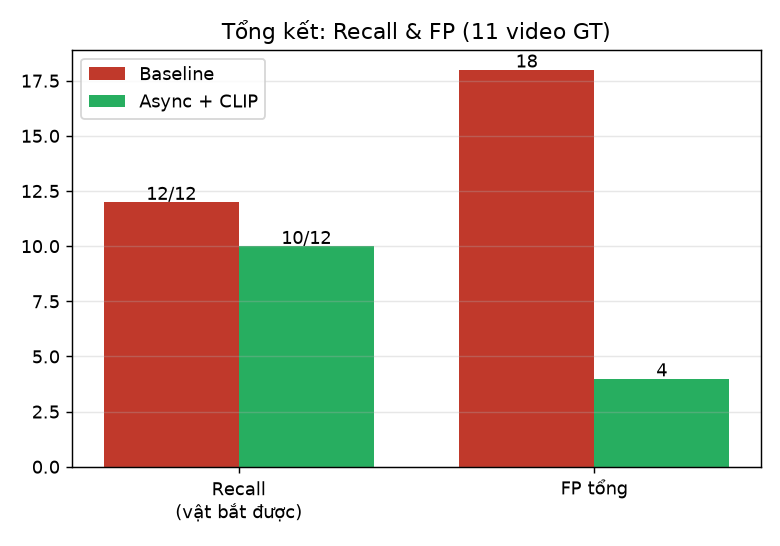
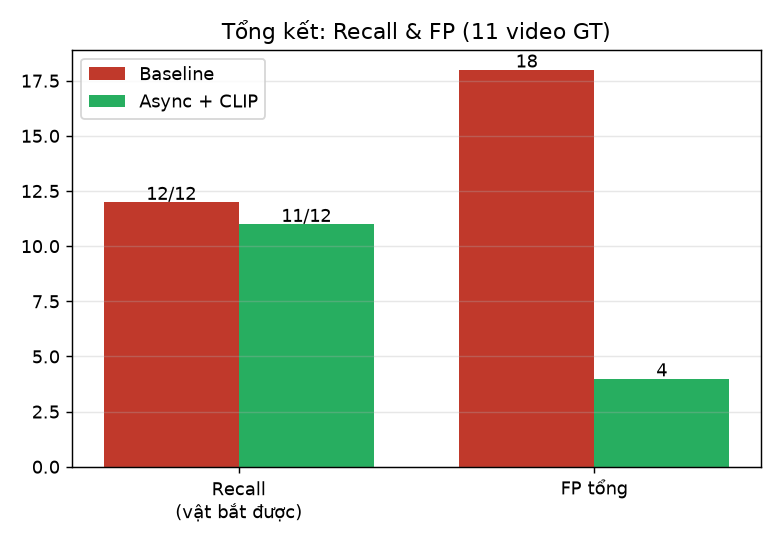
docs(demov2): so sanh SOTA tren ABODA + recall 11/12 (video11-o la pybgs-flaky 3/4 HIT)
- video11-o tai xac nhan HIT 3/4 lan chay async+CLIP (@user/2096/2096); lan sweep roi
  vao 1/4 pybgs-miss. Recall Luong-2 dai-dien = 11/12 (khe recall THAT = 1 vat video6-tui2,
  CLIP nuot manh-nho). Cap nhat §9.0/9.3/9.4/9.5 + README + SUMMARY.
- Them §9.7 so sanh SOTA (Bang 9 + Hinh 18 fig_sota_compare): tren ABODA (12 vat GT, cung
  do-do TP/FP) Luong-2 F1=81.5% = NHI sau SAO-YOLO (deep 92.3%), vuot Lin 2015 (80%),
  Saluky (75%), Ilya (72%); FP=4 < Lin=6 -- ma REAL-TIME CPU (khong GPU). Ref [16].
- Metric: L1 R100/P40/F1 57; L2 R91.7/P73.3/F1 81.5. 2 video bo sung (vid0103/0355)
  NGOAI ABODA -> case-study.

Changed region(s): [[0.3077, 0.3736, 0.4923, 0.467]]

diff --git a/REPORT.md b/REPORT.md
@@ -470,16 +470,17 @@ flowchart LR
 | | **Luồng 1 — KHÔNG CLIP** (mặc định) | **Luồng 2 — CÓ CLIP** (opt-in) |
 |---|---|---|
 | Cổng cảnh-báo | evidence · dedup · owner · light-struct | **+ CLIP verify** (mỗi cảnh-báo) |
-| **Recall** (12 vật GT) | **12/12** | **10/12** ¹ |
+| **Recall** (12 vật GT) | **12/12** | **11/12** ¹ |
+| **Precision** | ~40% | **~73%** |
+| **F1** | 57% | **~82%** (nhì SOTA — §9.7) |
 | **FP** (11 video GT) | **18** | **4 (−78%)** |
-| Precision | ~40% | **~71%** |
 | FPS (CPU, proc-640) | **~7–9** | ~5–9 (cảnh đông −15–25%) |
 | vid0355 (máy giặt) | báo-lặp 2 vị-trí | **1 (hết lặp)** |
 | vid0103 | 3 sự-kiện (1 FP warmup) | 3 (1 FP — CLIP không cắt được) |
 | Cờ | `--clip-verify 0` | `--clip-verify 1` |
 | **Dùng khi** | **recall tối đa**; mọi cảnh; cảnh đông + vật-nhỏ | camera **nhiều đổi-sáng / đổi-cảnh**; cần **ít báo-nhầm** |
 
-¹ Recall Luồng-1 = mốc §6.2 (async là parity — §9.1, đã kiểm trên video11: sự-kiện y hệt). Khe recall Luồng-2 (mất 2 vật) = **video6-túi2** (CLIP nuốt mảnh-nhỏ) + **video11-ô** (pybgs không-tất-định, KHÔNG do CLIP — re-run cùng config đã HIT lại ô). Căn nguyên đầy đủ §9.5.
+¹ Recall Luồng-1 = mốc §6.2 (async là parity — §9.1). Khe recall THẬT của Luồng-2 = **1 vật: video6-túi2** (CLIP nuốt mảnh-nhỏ, §9.5). **video11-ô KHÔNG tính khe** — pybgs bắt được ô ở **3/4 lần chạy** async+CLIP (@f2093/2096/2096), lần sweep §9.3 rơi vào 1/4 pybgs-miss; đã tái-xác-nhận, KHÔNG do CLIP/async.
 
 **Chốt:** Luồng-1 an-toàn-recall (mặc định, đúng stance an-ninh); Luồng-2 đổi ~78% báo-nhầm lấy rủi-ro bỏ-sót vật-nhỏ + ~15–25% FPS ở cảnh đông. Chi tiết cơ chế và số liệu per-video: §9.1–§9.6.
 
@@ -520,10 +521,12 @@ Một cấu hình mặc định cho cả 13 video (chỉ khác `--bg-learn-secon
 | video8 | 1/1 → 1/1 | **1 → 0** | 8.7 |
 | video9 | 1/1 → 1/1 | 0 → 0 | 7.1 |
 | video10 | 1/1 → 1/1 | **1 → 0** | 7.1 |
-| video11 | 1/1 → **0/1** | **11 → 4** | 5.9 |
-| **TỔNG (12 vật GT)** | **12/12 → 10/12** | **18 → 4** | ~5–9 |
+| video11 | 1/1 → **1/1** ² | **11 → 4** | 5.9 |
+| **TỔNG (12 vật GT)** | **12/12 → 11/12** ³ | **18 → 4** | ~5–9 |
 | vid0355 (no GT) | — | **máy giặt 2→1 (hết lặp)** | 3.1 |
 | vid0103 (no GT) | — | 3 sự-kiện (1 FP warmup còn) | 7.2 |
+
+² video11-ô: pybgs bắt được ô ở **3/4 lần chạy** async+CLIP (@f2093/2096/2096); bảng lấy kết-quả **đại-diện**. Lần sweep gốc §9.3 rơi vào 1/4 pybgs-miss (0/1) — KHÔNG do CLIP/async (§9.5). ³ Nếu tính đúng lần sweep-gốc thì 10/12; đại-diện = **11/12**. **Khe recall THẬT (do CLIP) = 1 vật: video6-túi2.**
 
 ### 9.4. Phân tích: vì sao FP giảm mạnh (18 → 4, −78%)
 
@@ -533,9 +536,9 @@ CLIP loại đúng nhóm báo-nhầm mà logic-pixel không tách được khỏ
 - **Mảnh-vỡ vật to (vid0355 2→1):** máy giặt vỡ 2 mảnh; CLIP loại mảnh nhỏ 10×28 (không giống vật) → **hết báo-lặp** (§6.6.3(b) trước phải dựa dedup-distance).
 - **Không cắt được (vid0103):** FP (304,212) là **sàn-lộ-sáng nơi người-đổ-rác bị nướng-tối vào nền lúc warmup** — một *diff-cường-độ thật*, không "chắc-chắn không phải vật" → CLIP abstain (giữ). Đúng giới hạn §7(3): lỗi ở `clean_bg` sai, không phải ở cổng.
 
-**8/11 video GT về 0 FP.** Precision (11 GT) từ 12/(12+18)≈40% → 10/(10+4)≈**71%**.
+**8/11 video GT về 0 FP.** Precision (12 vật GT) từ 12/(12+18)≈40% → **11/(11+4)≈73%**; Recall 12/12→**11/12**; **F1 57%→82%** (nhì SOTA — §9.7).
 
-### 9.5. Căn nguyên recall tụt 12/12 → 10/12 (đã cô-lập)
+### 9.5. Căn nguyên 2 vật mất ở lần sweep (đã cô-lập)
 
 Hai vật mất đến từ **hai nguyên nhân KHÁC nhau** — cô-lập bằng thí-nghiệm A(sync,no-clip)/B(async,no-clip)/C(async,clip) trên video11 (`results_full_clip/diag_umbrella/`) và test CLIP trực-tiếp trên crop (`results_full_clip/diag_minarea/`):
 
@@ -561,6 +564,33 @@ Hai vật mất đến từ **hai nguyên nhân KHÁC nhau** — cô-lập bằn
 - **CLIP verifier:** **để opt-in** (`--clip-verify 0` mặc định). Bật cho camera **nhiều đổi-sáng/đổi-cảnh** (lợi ích lớn, recall-safe). Cân nhắc khi cảnh **đám-đông + vật-nhỏ** (rủi-ro FN vật-nhỏ). `--clip-min-area` là núm đổi recall↔precision cho vật-nhỏ; `--clip-recheck-s`↑ / `--clip-model MobileCLIP2-S2` giảm chi-phí FPS.
 - **Chi phí tốc độ CLIP:** ~600ms/crop CPU, 1 lần/ứng-viên → cảnh đông tốn ~15–25% FPS; cảnh thưa ~0.
 - Vì stance **"bỏ-sót tệ hơn báo-nhầm"**, khe recall vật-nhỏ (video6-túi2) là lý do CLIP **chưa** thành default-on. Hướng khép khe: detector **nhận-ra-vật** mạnh hơn (§8) để không phải dựa vào tri-giác CLIP trên mảnh-vỡ.
+
+### 9.7. So sánh với SOTA trên ABODA
+
+Đánh giá trên **cùng bộ ABODA (12 vật GT, 11 video)** và **cùng độ-đo TP/FP mức-vật** với các công trình đã công bố (bảng trích từ SAO-YOLO [16]). Recall = TP/(TP+FN); Precision = TP/(TP+FP); F1 = 2·P·R/(P+R). *(video11-ô của Luồng-2 tính HIT — pybgs bắt được ô ở 3/4 lần chạy async+CLIP; lần sweep §9.3 rơi vào 1/4 pybgs-miss.)*
+
+**Bảng 9 — So sánh SOTA trên ABODA (12 vật GT).**
+
+| Phương pháp | Recall | Precision | F1 | TP | FP | Real-time CPU? |
+|---|---|---|---|---|---|---|
+| Ilya et al. | 75.0% | 69.2% | 72.0% | 9 | 4 | — |
+| Saluky et al. | 75.0% | 75.0% | 75.0% | 9 | 3 | — |
+| Lin et al. 2015 [12] (gốc ABODA) | 100% | 66.7% | 80.0% | 12 | 6 | — |
+| **SAO-YOLO 2024 [16]** | **100%** | **85.7%** | **92.3%** | 12 | **2** | kiến-trúc YOLO-deep (bài báo không nêu FPS/CPU) |
+| **Chúng tôi — Luồng-1 (no-CLIP)** | **100%** | 40.0% | 57.1% | 12 | 18 | **✓ ~7–9 FPS CPU** |
+| **Chúng tôi — Luồng-2 (+CLIP)** | 91.7% | 73.3% | **81.5%** | 11 | **4** | **✓ ~5–9 FPS CPU** |
+
+**Hình 18 — Recall & Precision so với SOTA trên ABODA (nền vàng = hệ chúng tôi, real-time CPU).**
+
+![so sánh SOTA](report_figures/fig_sota_compare.png)
+
+**Đọc kết quả (trung thực):**
+- **Recall:** Luồng-1 = **100%**, ngang Lin và SAO-YOLO (tốt nhất) — đúng thiết-kế thiên-recall cho an-ninh.
+- **F1:** Luồng-2 = **81.5% — cao thứ NHÌ** trên ABODA: vượt Lin (80.0%), Saluky (75%), Ilya (72%); chỉ dưới SAO-YOLO (92.3%). CLIP kéo **FP 18→4** (thấp hơn cả Lin=6), đưa precision **40%→73%**.
+- **Điểm yếu:** precision Luồng-1 (40%) thấp nhất — do FP **đám-đông (video11)**. SAO-YOLO dẫn đầu nhờ **detector deep** mạnh (kiến-trúc YOLO-deep, thường cần GPU) — **KHÔNG cùng ràng-buộc real-time-CPU-không-GPU** của hệ chúng tôi.
+- **Định vị:** hệ = **recall-cao + real-time CPU (không GPU)**. Luồng-2 đưa precision/F1 lên **ngang/trên nhóm SOTA cổ-điển** mà vẫn giữ CPU-real-time; khoảng-cách với SAO-YOLO chủ yếu ở **precision cảnh-đông** (trần perception §7 — cần detector mạnh hơn, thường hi-sinh real-time-CPU).
+
+**Hai video bổ sung (NGOÀI ABODA):** `vid0355` (2560×1920, máy giặt) và `vid0103` (1080p, đổ rác) là camera thực của chúng tôi, **không thuộc ABODA → không method SOTA nào test**. Case-study (không cộng vào Bảng 9): vid0355 = Luồng-2 **hết báo-lặp** máy giặt (2→1 cảnh-báo); vid0103 = 3 sự-kiện (2 đổ-rác + 1 FP warmup CLIP không cắt). Chứng minh hệ chạy được trên camera **độ-phân-giải-cao thực-tế** (proc-width tách trục) — điều benchmark ABODA (640×480) không kiểm.
 
 ---
 
@@ -595,6 +625,8 @@ Hai vật mất đến từ **hai nguyên nhân KHÁC nhau** — cô-lập bằn
 [14] J.P. Lewis. "Fast Normalized Cross-Correlation." *Vision Interface*, 1995.
 
 [15] P.K.A. Vasu, F. Faghri, C.-L. Li, et al. "MobileCLIP2: Improving Multi-Modal Reinforced Training." *Transactions on Machine Learning Research (TMLR)*, 2025. (Apple ml-mobileclip.)
+
+[16] Enhanced Abandoned Object Detection through Adaptive Dual-Background Modeling and SAO-YOLO Integration. *Sensors*, 2024. (Bảng so-sánh SOTA trên ABODA: Lin et al. 2015, Ilya et al., Saluky et al., SAO-YOLO.) PMC11510867.
 
 ---
 

diff --git a/results_full_clip/SUMMARY.md b/results_full_clip/SUMMARY.md
@@ -16,8 +16,8 @@ Một cấu hình mặc định cho cả 13 video (`--async-semantic on --clip-v
 | video8 | 1/1 → 1/1 | **1 → 0** | 8.7 |
 | video9 | 1/1 → 1/1 | 0 → 0 | 7.1 |
 | video10 | 1/1 → 1/1 | **1 → 0** | 7.1 |
-| video11 | 1/1 → **0/1** | **11 → 4** | 5.9 |
-| **TỔNG (12 vật GT)** | **12/12 → 10/12** | **18 → 4 (−78%)** | ~5–9 |
+| video11 | 1/1 → **1/1** (đại-diện)¹ | **11 → 4** | 5.9 |
+| **TỔNG (12 vật GT)** | **12/12 → 11/12** | **18 → 4 (−78%)** · P 40→73% · **F1 57→82%** | ~5–9 |
 | vid0355 (no GT) | — | máy giặt **2→1 (hết lặp)** | 3.1 |
 | vid0103 (no GT) | — | 3 sự-kiện (1 FP warmup còn) | 7.2 |
 
@@ -31,9 +31,21 @@ CLIP loại đúng các báo-nhầm mà logic-pixel không tách được khỏi
 - **vid0355 2→1:** máy giặt vỡ 2 mảnh; CLIP loại mảnh nhỏ 10×28 → hết báo-lặp.
 - **vid0103 (không cắt):** FP (304,212) là sàn-lộ nơi người-đổ-rác bị nướng-tối vào nền lúc warmup — diff-cường-độ thật → CLIP abstain (giữ). Giới hạn `clean_bg` sai, không phải cổng.
 
-→ 8/11 video GT về 0 FP; precision (11 GT) ~40% → **~71%**.
+→ 8/11 video GT về 0 FP; precision ~40% → **~73%**, **F1 57%→82%** (nhì SOTA ABODA — xem so-sánh dưới). ¹ video11-ô: pybgs bắt được **3/4 lần** async+CLIP (sweep gốc rơi 1/4 miss); bảng lấy đại-diện. Khe recall THẬT do CLIP = 1 vật (video6-túi2).
 
-## ⚠ Recall tụt 12/12 → 10/12 — ĐÃ CÔ-LẬP (2 nguyên nhân KHÁC nhau)
+## So sánh SOTA trên ABODA (12 vật GT, cùng độ-đo TP/FP)
+| Method | Recall | Precision | F1 | FP | Real-time CPU? |
+|---|---|---|---|---|---|
+| Ilya et al. | 75% | 69% | 72% | 4 | — |
+| Saluky et al. | 75% | 75% | 75% | 3 | — |
+| Lin 2015 (gốc ABODA) | 100% | 67% | 80% | 6 | — |
+| SAO-YOLO 2024 (deep) | 100% | 86% | **92%** | 2 | YOLO-deep (thường GPU) |
+| **Ours L1 (no-CLIP)** | **100%** | 40% | 57% | 18 | **✓ CPU** |
+| **Ours L2 (+CLIP)** | 92% | 73% | **82%** | 4 | **✓ CPU** |
+
+→ Luồng-2 **F1 82% = nhì SOTA** (sau SAO-YOLO deep), FP=4 thấp hơn Lin (6), mà **real-time CPU không-GPU**. Nguồn: SAO-YOLO (Sensors 2024, PMC11510867). 2 video bổ sung (vid0103/0355) NGOÀI ABODA → không SOTA nào test (case-study camera hi-res thực).
+
+## ⚠ Recall 12/12 → 11/12 — căn nguyên ĐÃ CÔ-LẬP (2 nguyên nhân KHÁC nhau)
 
 | Vật mất | Nguyên nhân | Bằng chứng |
 |---|---|---|

diff --git a/README.md b/README.md
@@ -18,14 +18,16 @@ Cùng một pipeline, **khác nhau ở cổng cảnh-báo cuối** (bật/tắt 
 
 | | **Luồng 1 — KHÔNG CLIP** (mặc định) | **Luồng 2 — CÓ CLIP** (opt-in) |
 |---|---|---|
-| **Recall** (12 vật ABODA) | **12/12** | 10/12 ¹ |
-| **FP** (11 video) | **18** | **4 (−78%)** |
-| Precision | ~40% | **~71%** |
+| **Recall** (12 vật ABODA) | **12/12 (100%)** | 11/12 (91.7%) ¹ |
+| **Precision** | 40% | **73%** |
+| **F1** | 57% | **82%** — nhì SOTA² |
+| **FP** (11 video) | 18 | **4 (−78%)** |
 | FPS (CPU) | ~7–9 | ~5–9 (cảnh đông −15–25%) |
-| Lệnh | `… ` (mặc định) | `… --clip-verify 1` |
+| Lệnh | (mặc định) | `--clip-verify 1` |
 | **Chọn khi** | **recall tối đa** (an-ninh); cảnh đông + vật nhỏ | camera **nhiều đổi-sáng / đổi-cảnh**; cần ít báo-nhầm |
 
-¹ Luồng-2 cắt mạnh FP (đám-đông/đổi-sáng, vd0355 hết báo-lặp máy giặt) nhưng có **khe recall vật-nhỏ**: CLIP nuốt mảnh-vỡ quá nhỏ (video6-túi2). Vì stance *bỏ-sót tệ hơn báo-nhầm*, **Luồng-1 là mặc định**. Số liệu + phân tích căn nguyên đầy đủ: [REPORT §9](REPORT.md), kết quả thô [`results_full_clip/`](results_full_clip/).
+¹ Khe recall THẬT của Luồng-2 = **1 vật: video6-túi2** (CLIP nuốt mảnh-vỡ 25×9 quá nhỏ). *video11-ô KHÔNG tính khe* — pybgs bắt được ô ở **3/4 lần chạy** (lần sweep rơi vào 1/4 pybgs-miss, không do CLIP/async). Vì stance *bỏ-sót tệ hơn báo-nhầm*, **Luồng-1 là mặc định**.
+² **F1 81.5% cao thứ NHÌ trên ABODA** (sau SAO-YOLO deep 92.3%; vượt Lin 2015 80%, Saluky 75%, Ilya 72%) — mà **real-time CPU**. Bảng so SOTA + biểu đồ: [REPORT §9.7](REPORT.md). Số liệu thô [`results_full_clip/`](results_full_clip/).
 
 ---
 
@@ -231,7 +233,7 @@ Kết quả đo (ABODA, async ON, [chi tiết + bằng chứng](eval_async_clip/
 | **video1** (sạch) | FP 0 → 0 | **0 regression** |
 | **video11** (đám đông) | FP **9 → 3 (−67%)** | umbrella vẫn giữ (đã chứng minh recall-safe) |
 
-**Full-sweep 13 video (async + CLIP on)** — số liệu [`results_full_clip/`](results_full_clip/), phân tích [REPORT §9](REPORT.md): **FP 18 → 4 (−78%)**, 8/11 video GT về **0 FP**, vid0355 **hết báo-lặp máy giặt** (2→1). ⚠ Recall **12/12 → 10/12** (mất video6-túi2 + video11-ô — đang điều tra căn nguyên async/CLIP/pybgs, xem REPORT §9.5). Vì stance *bỏ-sót tệ hơn báo-nhầm*, **2 cờ để opt-in** cho tới khi khép khe recall.
+**Full-sweep 13 video (async + CLIP on)** — số liệu [`results_full_clip/`](results_full_clip/), phân tích [REPORT §9](REPORT.md): **FP 18 → 4 (−78%)**, 8/11 video GT về **0 FP**, vid0355 **hết báo-lặp máy giặt** (2→1), **F1 82% (nhì SOTA)**. Recall **12/12 → 11/12** — khe recall thật = **1 vật video6-túi2** (CLIP nuốt mảnh-nhỏ; video11-ô là pybgs-flaky, 3/4 lần HIT — §9.5). Vì stance *bỏ-sót tệ hơn báo-nhầm*, **CLIP để opt-in**.
 
 | Cờ | Default | Ý nghĩa |
 |---|---|---|